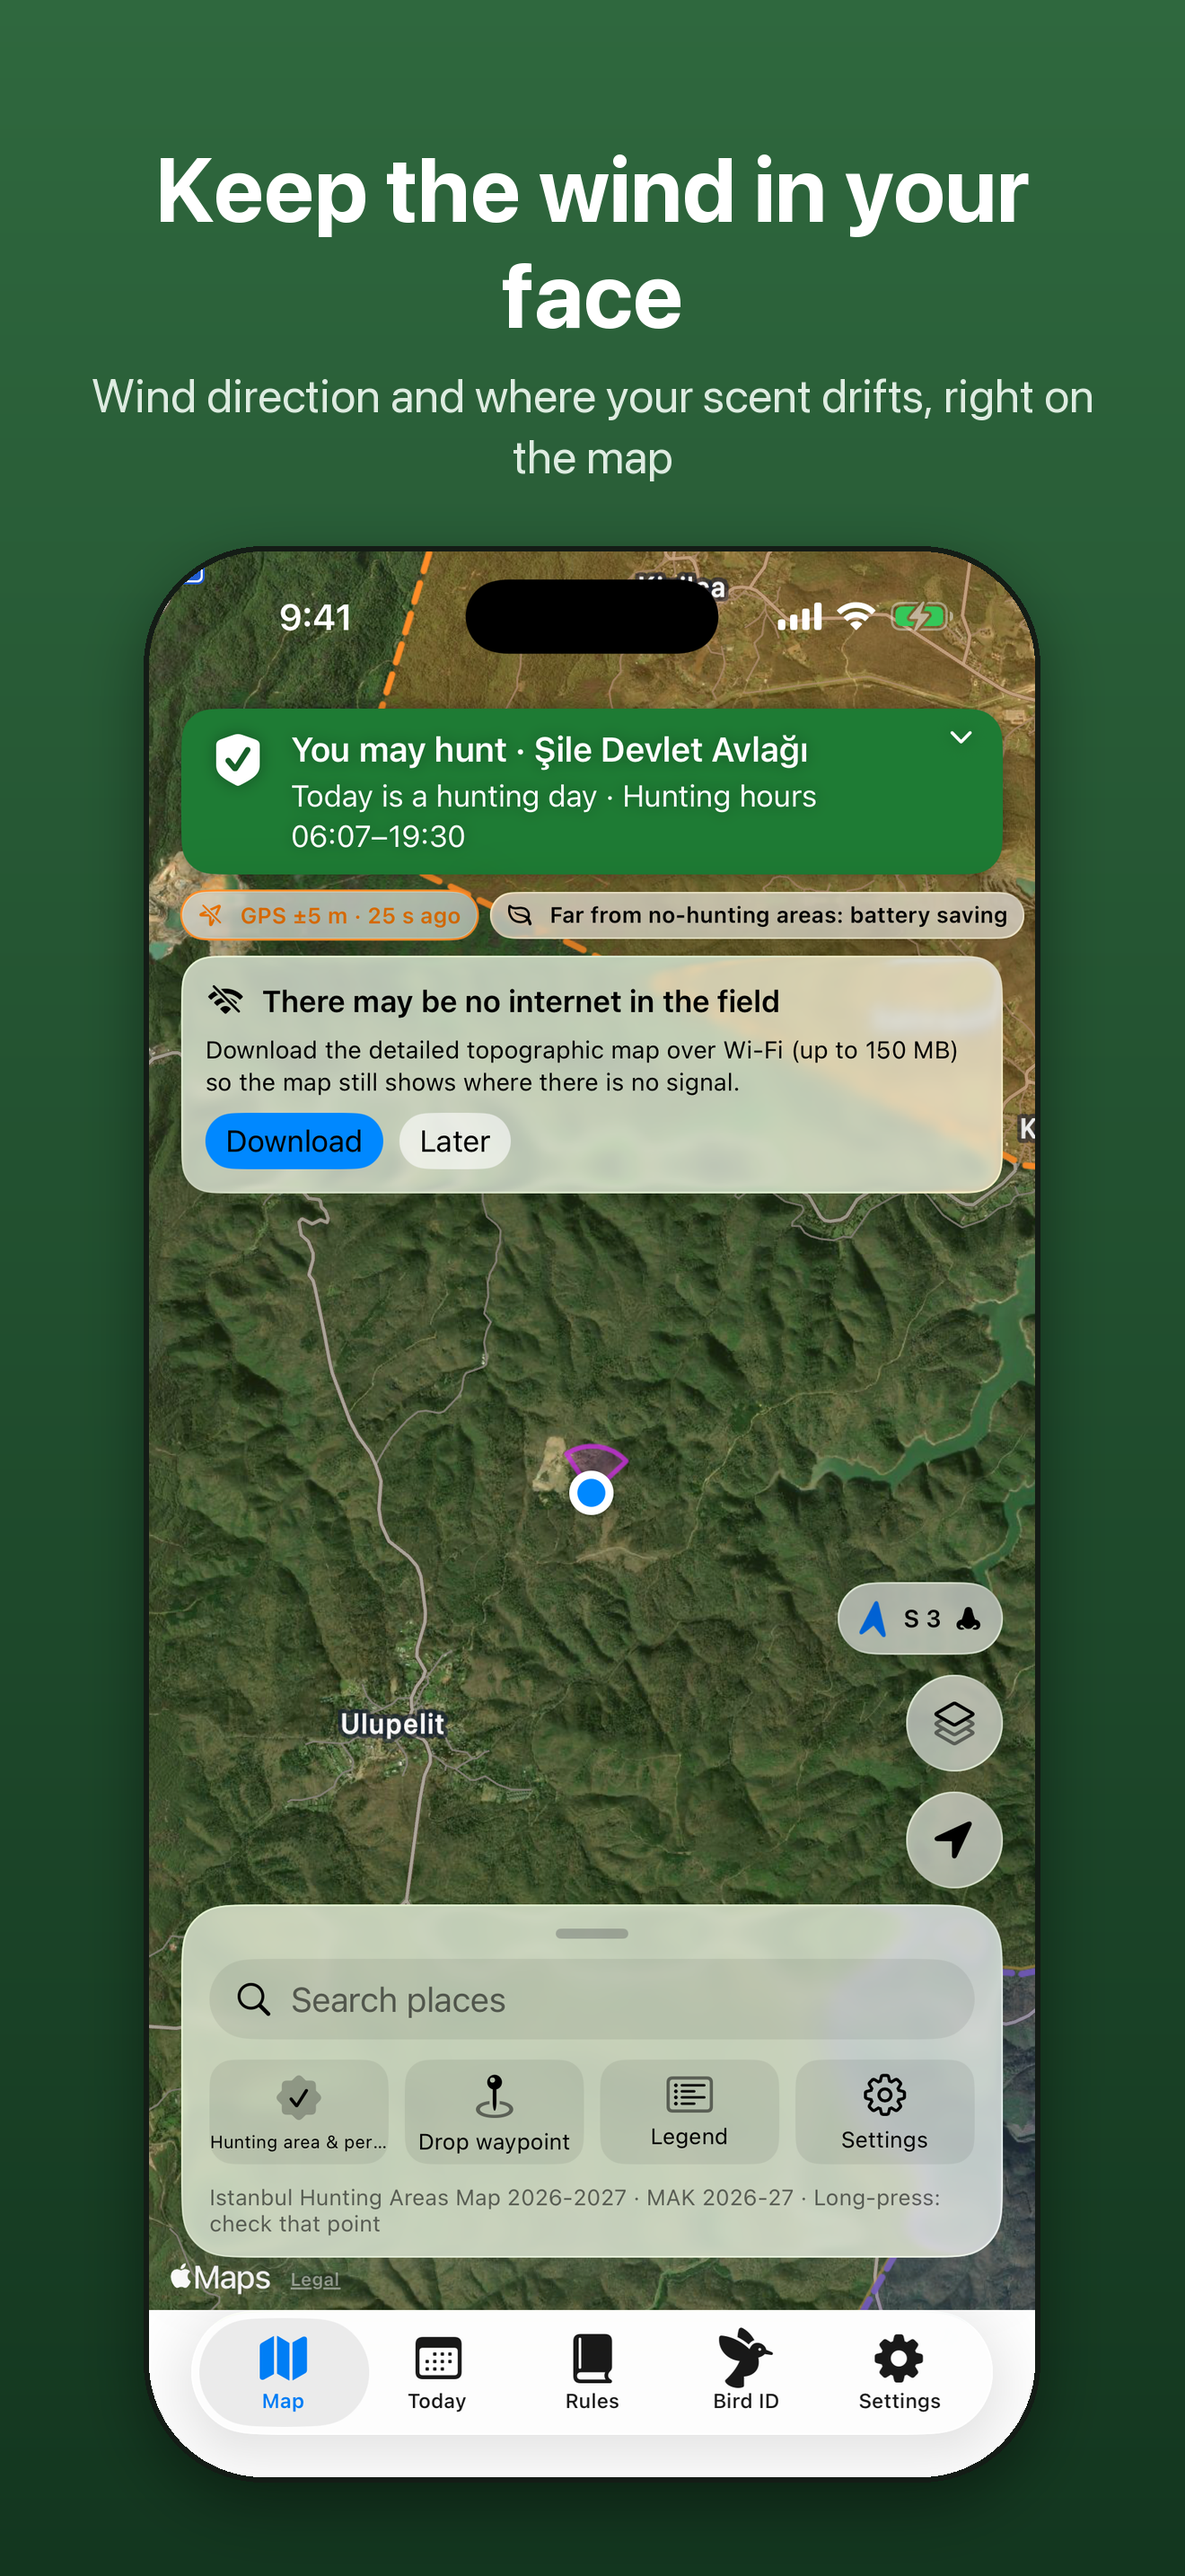
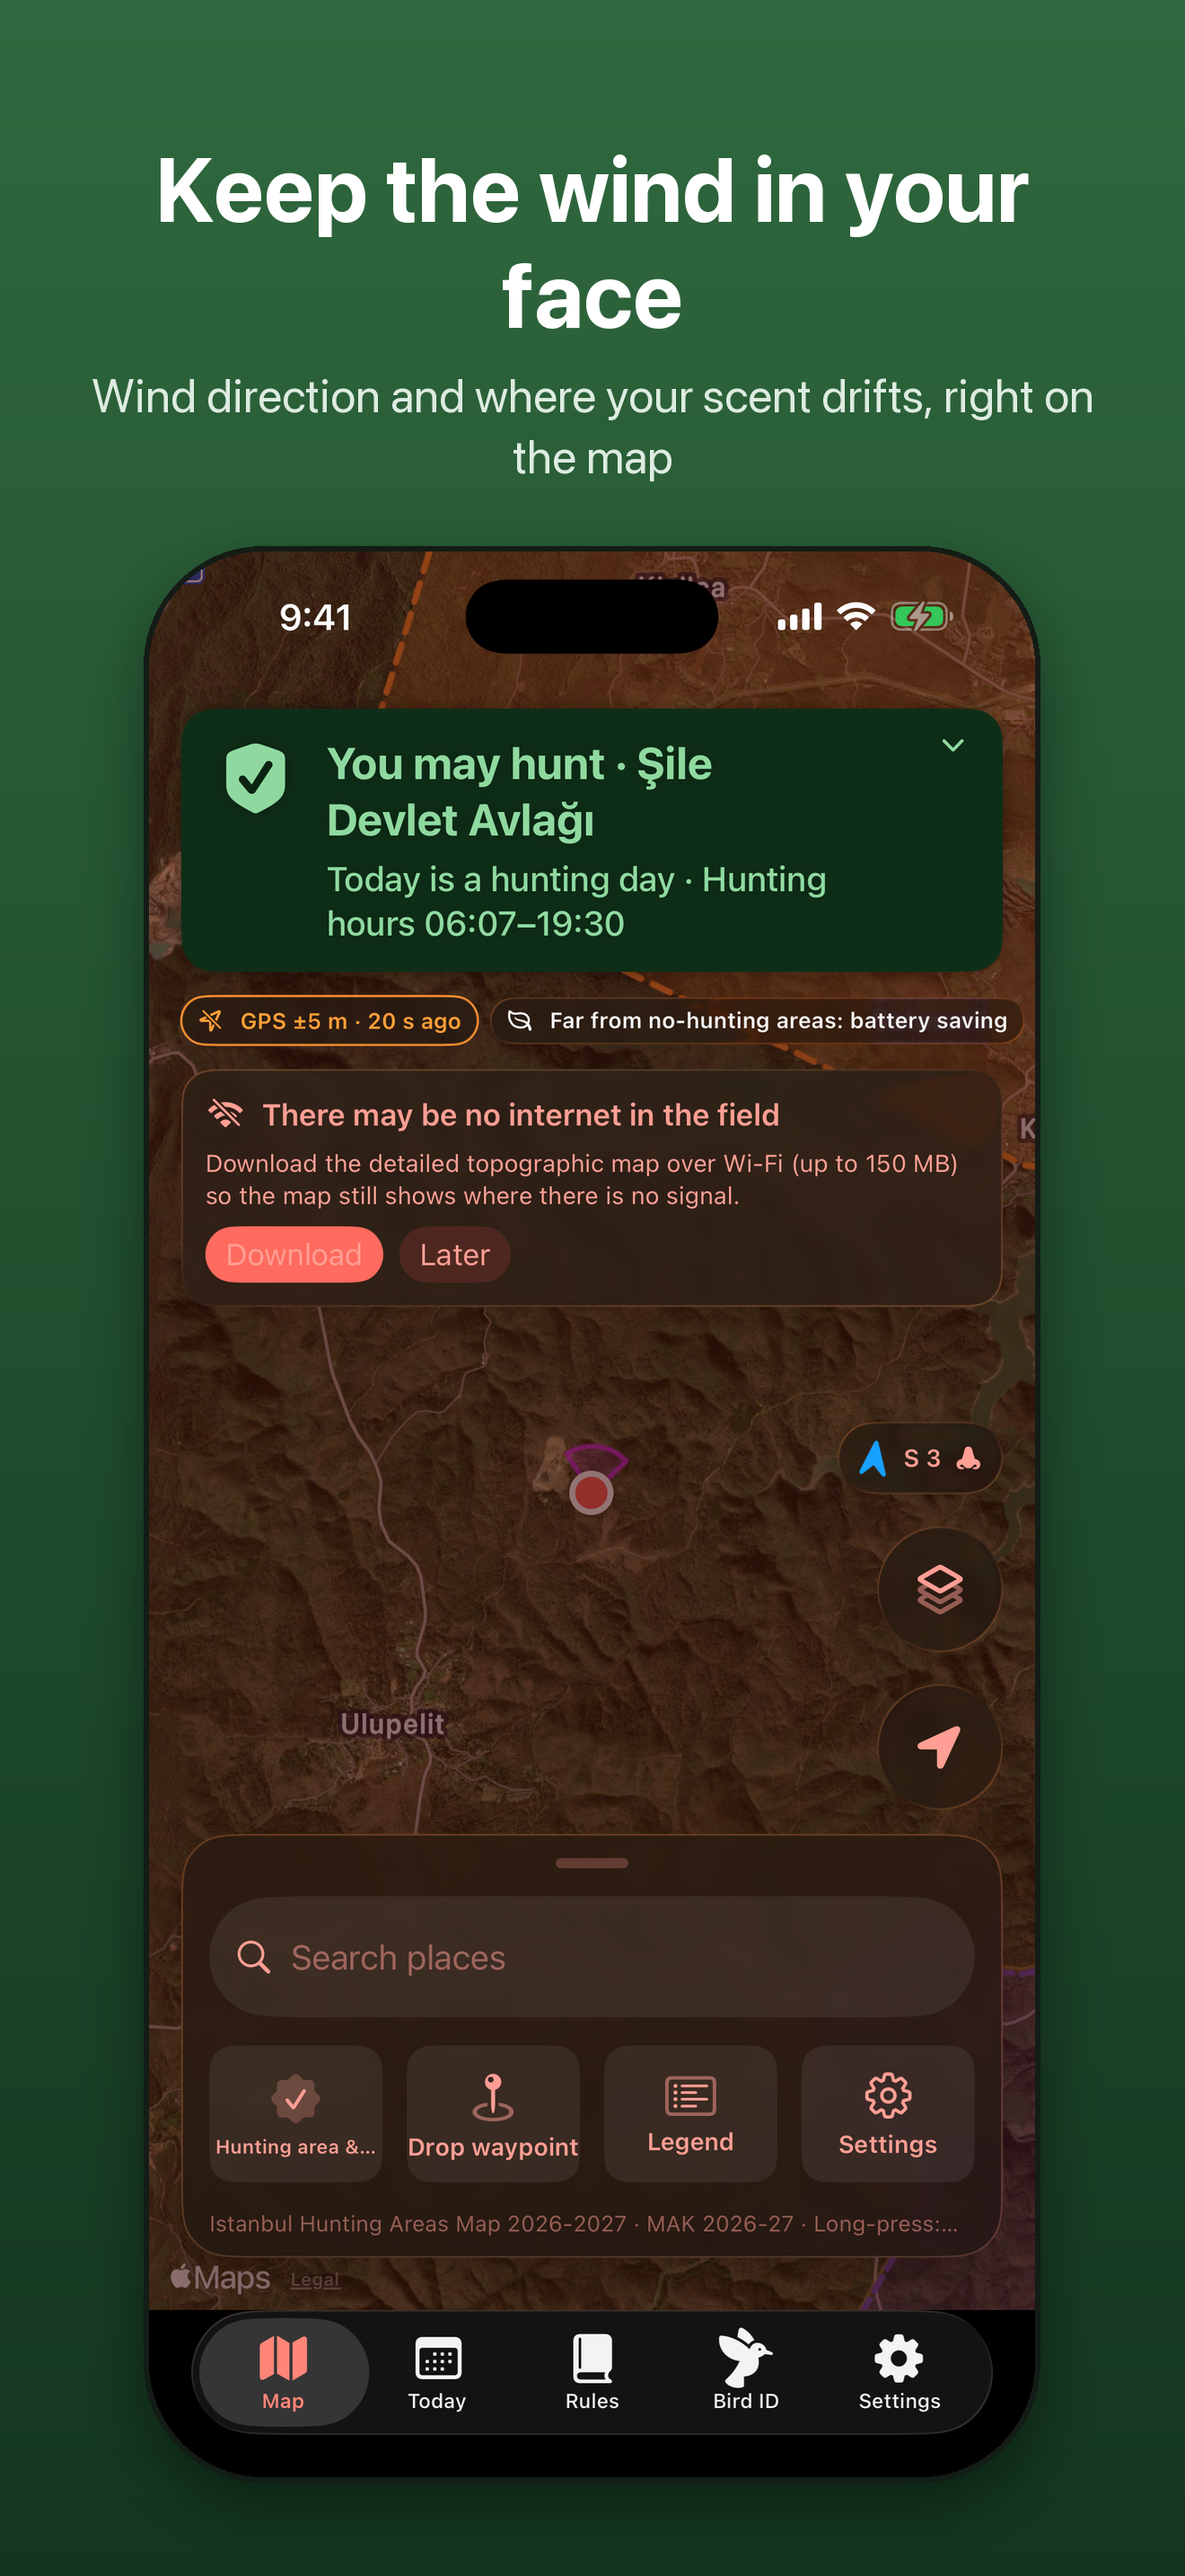
Ekran görüntüleri: 3 yeni App Store sahnesi (sınır mesafesi, işaret yönlendirme, saha/gece)
Claude-Session: https://claude.ai/code/session_011RkpWJfGkdmEjCGNVzzYXo

diff --git a/screenshots/README.md b/screenshots/README.md
@@ -4,7 +4,7 @@
 
 | Klasör | İçerik |
 |---|---|
-| `appstore/{tr,en}/` | App Store 6.9" ham görüntüler (1320×2868, saydamlık yok). App Store Connect'e bunlar yüklenir. |
+| `appstore/{tr,en}/` | App Store 6.9" ham görüntüler, 9 sahne (1320×2868, saydamlık yok). App Store Connect'e bunlar yüklenir. |
 | `appstore_framed/{tr,en}/` | Başlıklı ve çerçeveli tanıtım sürümleri (aynı boyut). |
 | `uygulama/` | Genel uygulama ekranları (TR ve EN). |
 | `onizleme_{tr,en}.jpg` | Çerçeveli görüntülerin küçük önizlemesi. |
